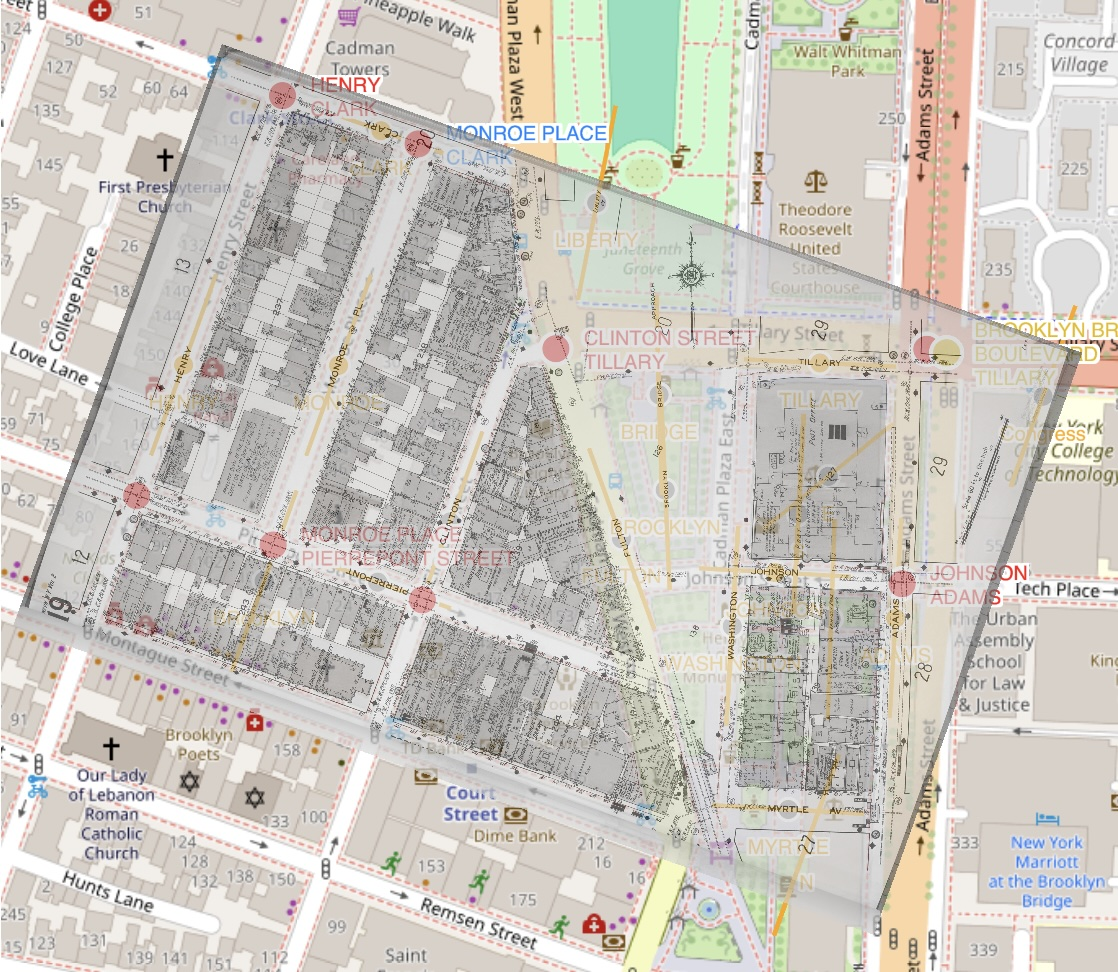
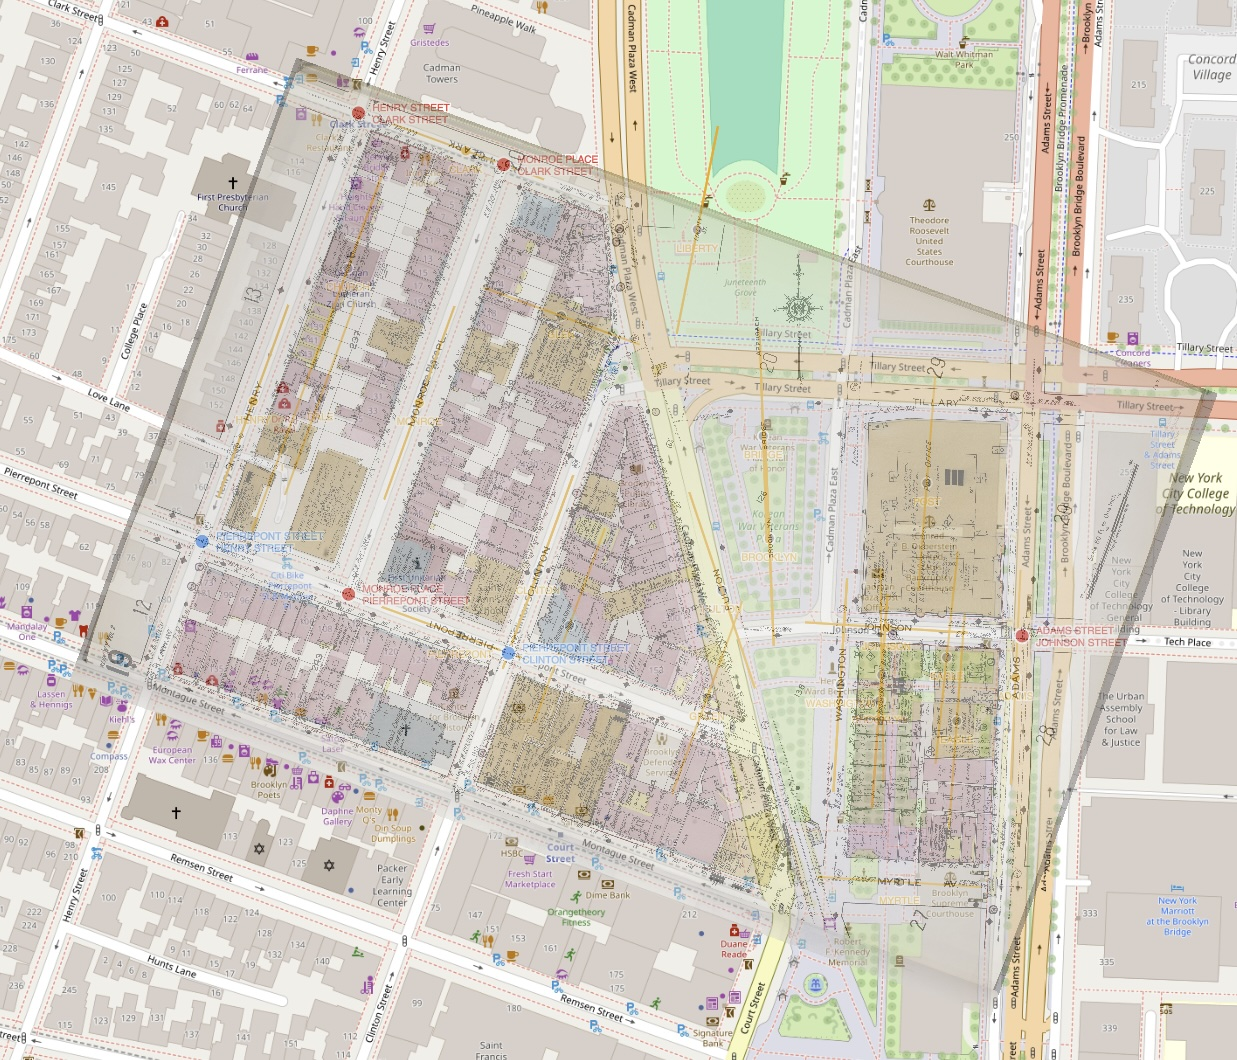
update initial walkthrough

diff --git a/README.md b/README.md
@@ -39,9 +39,13 @@ This image depicts a small area of Brooklyn, NY in 1939. Our goal is to overlay 
 
 We can run EasyOCR against it to get candidate street labels:
 
-![Same image with boxes drawn around text](/images/brooklyn_ny_1939_vol_2_p19.detect.png)
+![Same image with boxes drawn around text](/images/brooklyn_ny_1939_vol_2_p19.detect.jpg)
 
-There's a lot of text in this image! The red boxes show labels that are likely to be streets.
+There's a lot of text in this image! The green boxes show labels that Mapsnap believes are likely to be streets. These are all rectangles that:
+
+1. EasyOCR's CRAFT text recognizer thinks contain text.
+2. Match a street name somewhere in Brooklyn.
+3. Are larger than a minimum size.
 
 From each bounding rectangle we get three bits of information:
 
@@ -51,33 +55,30 @@ From each bounding rectangle we get three bits of information:
 
 This is the information we'll use to determine the map projection.
 
-We generally know _roughly_ where the map is: the Library of Congress has organized their Sanborn collection by country, state and county. We can get an even better estimate by locating the [key map] for the volume. This gives a bounding box that's at most a few miles in each dimension.
+We generally know _roughly_ where the map is: the Library of Congress has organized their Sanborn collection by country, state and county. So to get street names, we can download all of OSM's features for that county. Our hope is that enough streets have stayed the same that we can line them up between the Sanborn map and OSM.
 
-Next, we download contemporary streets in that bounding box from [OpenStreetMap] (OSM). Our hope is that enough streets have stayed the same that we can line them up between the Sanborn map and OSM.
+(You can get much tighter by locating the [key map] for the volume. This gives a bounding box that's at most a few miles in each dimension, but adds a step that's usually unnecessary. A county is precise enough for Mapsnap.)
 
-We can use the contemporary streets to filter the OCR results:
+Most of the detected streets are real, but some of them are not:
 
-![Detected streets in the image](/images/detected-streets.png)
-
-Many of these are real streets, but many of them are not:
-
-- The cut-off street names on the right are CLARK (👍), LIBERTY (👍) and CONGRESS (👎). This last one is matching the "Library of Congress" stamp, because there _is_ a Congress Street in Brooklyn.
 - Most of the streets in the middle are correct: HENRY, MONROE, PIERREPONT, CLINTON, FULTON, WASHINGTON, JOHNSON, ADAMS, MYRTLE.
-- It gets thrown off by "BROOKLYN BRIDGE APPROACH" and sees BROOKLYN in a few other places. These are all bad detections that could potentially throw off alignment.
+- It gets thrown off by "BROOKLYN BRIDGE APPROACH" and sees BROOKLYN in a few other places. There's a Brooklyn Avenue and a Bridge Street in Brooklyn, but this isn't either of them. These are bad detections that could potentially throw off alignment.
+- It matches the "POST" in "POST OFFICE" because "POST COURT" is a street in Brooklyn. Again, this could create trouble.
+- There are a few more lower-confidence street detections in red boxes.
 
-The street matching here is quite flexible. We only match MONROE, which could be Monroe Place or Monroe Street: both exist in this area of Brooklyn. So we throw in both and hope to sort it out later.
+The street matching here is quite flexible. We only match MONROE, which could be Monroe Place or Monroe Street: both exist in Brooklyn. So we throw in both and hope to sort it out later.
 
-Next, we extrapolate the streets in both directions, following the direction of the text. If two streets intersect in the image and in the OSM data, we record a candidate intersection:
+Next, we extrapolate the streets in both directions, following the direction of the text. If two streets intersect near the image _and_ in the OSM data, we record a candidate intersection:
 
 ![Intersections](/images/intersections.png)
 
-These are known as Ground Control Points (GCPs). If we have two or more GCPs, we have enough data to fit a model. (Sometimes we can get a fit with just one — more on this in a bit.)
+These are known as Ground Control Points (GCPs). If we have two or more GCPs, we have enough data to fit a model. (If you think you need three, see [Notes on the Model](#six-parameters-vs-four), below. Sometimes we can get a fit with just one — more on this [in a bit](#one-gcp-fits).)
 
 For each pair of GCPs, we can fit a model and see where it would place the street labels from OCR. If the label gets mapped close to the expected street in OSM, and the street is at the expected angle there, then that's an indicator of a good fit and this street is an "inlier." If not, it's an outlier.
 
 We try each pair of GCPs and find the one that produces the best fit with the most inliers. (This is roughly the [RANSAC algorithm].) This is our mapping!
 
-In the image above, the chosen GCPs are JOHNSON x ADAMS and MONROE x CLARK. The orange street labels are inliers this this mapping, and the gray ones are outliers. This rejects spurious streets like BROOKLYN and CONGRESS. Interestingly, it also rejects FULTON, which continued into this area in 1937 but stops short today.
+In the image above, the chosen GCPs are PIERREPONT STREET x HENRY STREET and PIERREPONT STREET x CLINTON STREET. The orange street labels are inliers this this mapping, and the gray ones are outliers. This rejects spurious streets like BROOKLYN and POST. Interestingly, it also rejects FULTON, which continued into this area in 1937 but stops short today.
 
 Here's what the resulting mapping looks like:
 
@@ -89,7 +90,6 @@ You can view the [full mapping][bkiiif] for this section of Brooklyn on Allmaps.
 
 [p19]: https://oldinsurancemaps.net/document/85714
 [key map]: https://oldinsurancemaps.net/document/85676
-[OpenStreetMap]: https://www.openstreetmap.org/#map=18/40.683787/-73.978527
 [RANSAC algorithm]: https://www.thinkautonomous.ai/blog/ransac-algorithm/
 [bkiiif]: https://viewer.allmaps.org/?url=https%3A%2F%2Fraw.githubusercontent.com%2Fdanvk%2Fmapsnap%2Frefs%2Fheads%2Fmain%2Fgallery%2Fbrooklyn_ny_1939_vol_2.iiif.json
 
@@ -97,15 +97,19 @@ You can view the [full mapping][bkiiif] for this section of Brooklyn on Allmaps.
 
 It takes two GCPs to define a four parameter model (translate x, translate y, scale, rotation). But sometimes we can get away with just one.
 
-Consider [page 432] from New Orleans 1951 Volume 5. Here are the detected streets and intersections:
+Consider [page 431] from New Orleans 1951 Volume 5. Here are the detected streets and intersections:
 
-![Image showing three streets and one intersection](/images/1gcp.png)
+![Image showing three streets and one intersection](/images/1gcp.jpg)
 
-There are three streets and one intersection (S. Front and Napoleon don't intersect). The one intersection gives us a location, and hence the two translation parameters of the model. The angles of the roads can give us the rotation. But what about the scale?
+There are three streets and one intersection (CADIZ and TCHOUPITOULAS don't intersect). The one intersection gives us a location, and hence the two translation parameters of the model. The angles of the roads can give us the rotation. But what about the scale?
 
-Assuming this map is from a larger volume, we can assume that all the maps in the volume have roughly the same scale. Specifically, we plug in the median scale across all the maps with more GCPs. When you run the pipeline, these sorts of fits show up as "deferred." These fits aren't quite as robust as they'd be if we had more GCPs. But they're often pretty good, and they're better than nothing!
+Assuming this map is from a larger volume, we can assume that all the maps in the volume have roughly the same scale. Specifically, we plug in the median scale across all the maps with more GCPs. When you run the pipeline, these sorts of fits show up as "deferred."
 
-[page 432]: https://oldinsurancemaps.net/document/46011
+These fits aren't quite as robust as they'd be if we had more GCPs, so we require a little bit more evidence before accepting them. Specifically, we look at all the adjacent pages in the volume. If two or more of them match the rotation angle of the 1-gcp fit, then we keep it. Otherwise we toss it.
+
+Sometimes these fits aren't the best, but they're often pretty good and they significantly increase Mapsnap's coverage for some volumes, e.g. [Detroit 1929 Vol 11][detroit].
+
+[page 431]: https://oldinsurancemaps.net/document/46009
 
 ## Development
 